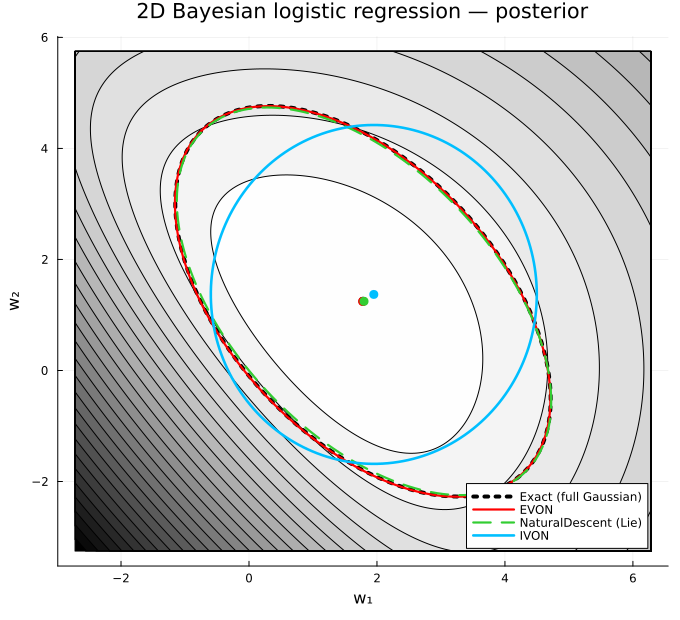
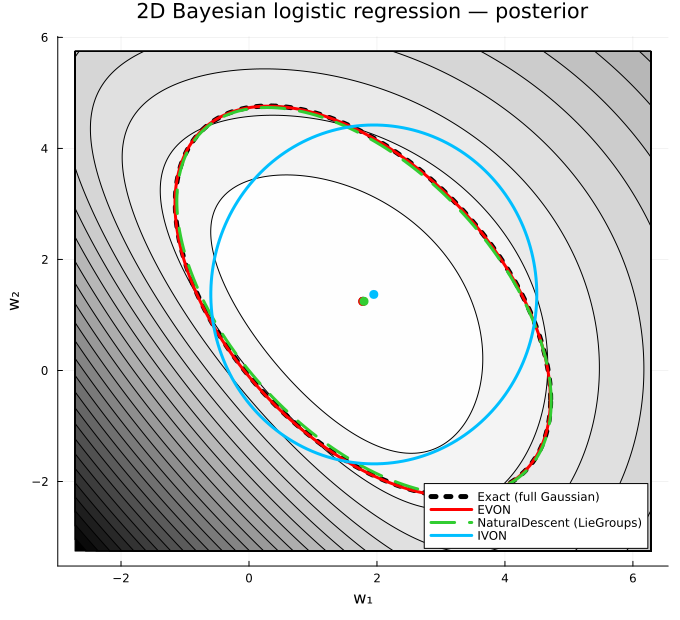
update README

diff --git a/README.md b/README.md
@@ -4,6 +4,8 @@
 [![License: MIT](https://img.shields.io/badge/License-MIT-blue.svg?style=flat-square)](https://opensource.org/licenses/MIT)
 [![Tests](https://img.shields.io/badge/Tests-Passed-success?style=flat-square)](https://github.com/alexander/Postdoc/Projects/NaturalOptimisers.jl)
 
+<img src="scripts/figures/logistic_regression.png" width="450"/>
+
 `NaturalOptimisers.jl` provides **variational learning** optimisers — natural-gradient and Newton-like rules that learn a Gaussian distribution over a model's weights instead of a point estimate. It plugs into the [`Optimisers.jl`](https://github.com/FluxML/Optimisers.jl) ecosystem: the variational distribution $q$ is stored *inside the optimiser state*, so any existing model becomes a Bayesian one without changing its structure.
 
 ## Optimisers